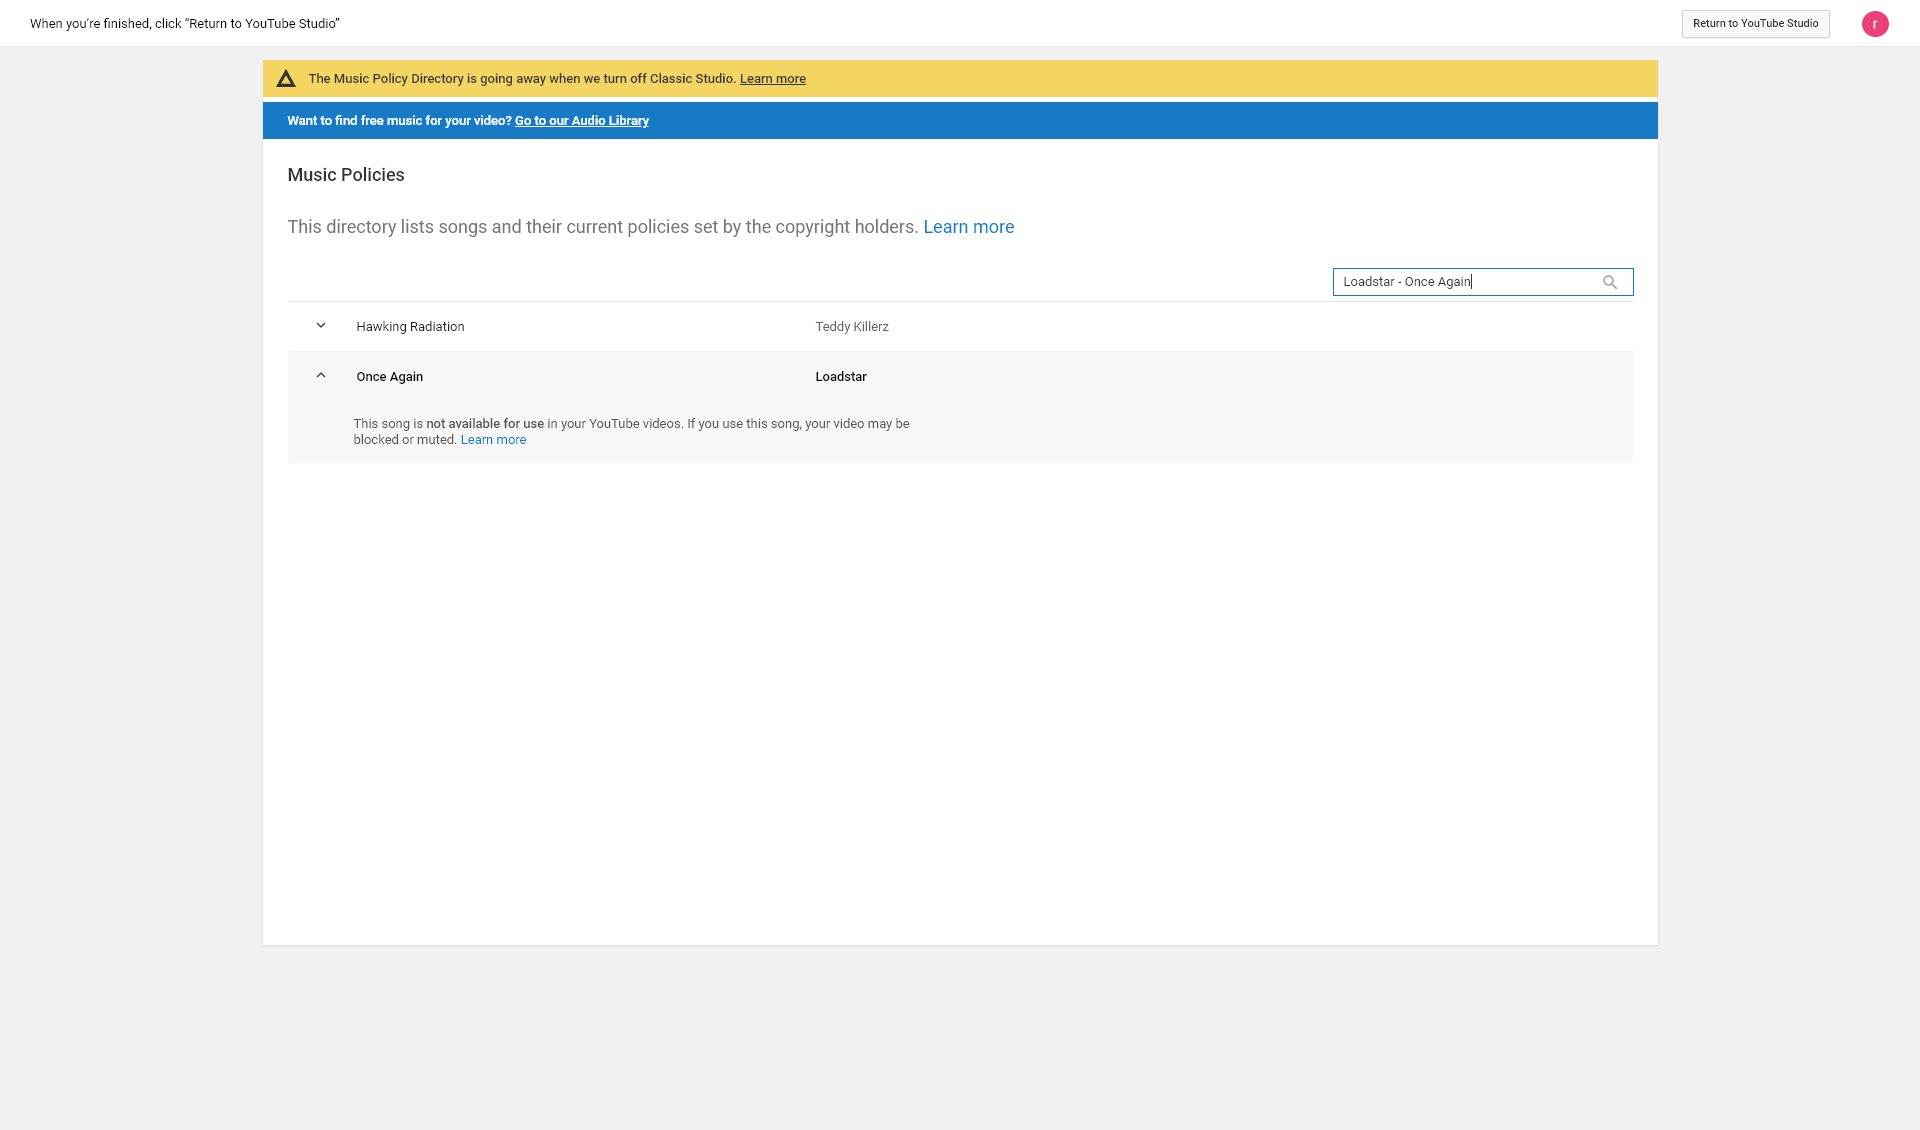
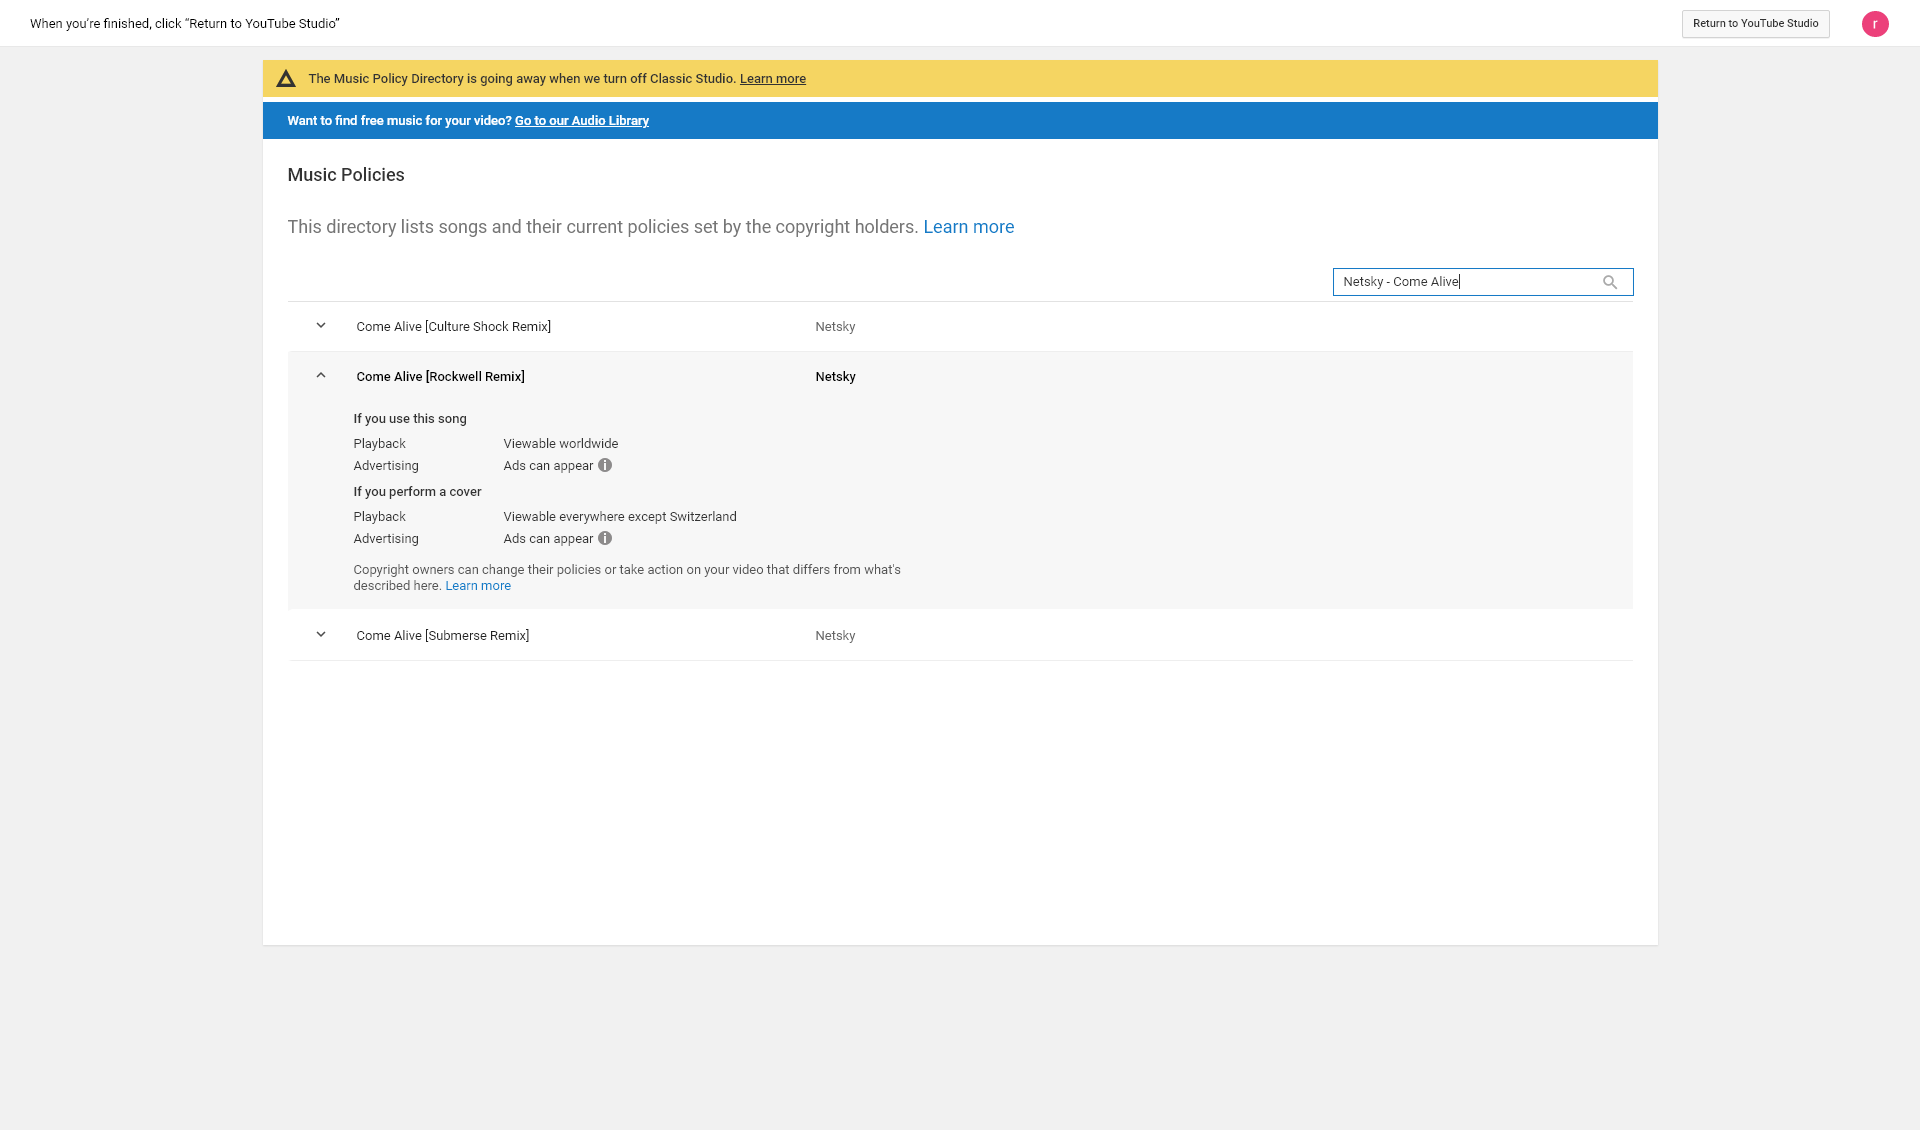
Add delay when typing

diff --git a/app/stealth.js b/app/stealth.js
@@ -21,30 +21,40 @@ puppeteer
     const page = await browser.newPage();
     await page.goto("https://accounts.google.com/");
 
-    await page.waitForSelector('input[type="email"]');
-    await page.click('input[type="email"]');
-    await page.type('input[type="email"]', process.env.LOGIN);
+    const fillEmail = async () => {
+      await page.waitForSelector('input[type="email"]');
+      await page.click('input[type="email"]');
+      await page.type('input[type="email"]', process.env.LOGIN, { delay: 50 });
+    };
+    const clickEmailNext = async () => {
+      await page.waitForSelector("#identifierNext");
+      await page.click("#identifierNext");
+      await page.waitFor(500);
+    };
+    const fillPassword = async () => {
+      await page.waitForSelector('input[type="password"]');
+      await page.evaluate(() => {
+        document.querySelector('input[type="password"]').click();
+      });
+      await page.waitFor(2500);
+      await page.type('input[type="password"]', process.env.PASSWORD, {
+        delay: 50,
+      });
+      await page.waitFor(500);
+    };
+    const clickPasswordNext = async () => {
+      await page.waitForSelector("#passwordNext");
+      await page.click("#passwordNext");
+      console.log("logged");
+      await page.waitFor(2500);
+    };
 
-    await page.waitForSelector("#identifierNext");
-    await page.click("#identifierNext");
-    await page.waitFor(500);
-
-    await page.waitForSelector('input[type="password"]');
-    await page.evaluate(() => {
-      document.querySelector('input[type="password"]').click();
-    });
-    await page.waitFor(2500);
-    await page.type('input[type="password"]', process.env.PASSWORD);
-
-    await page.waitFor(500);
-    await page.waitForSelector("#passwordNext");
-    await page.click("#passwordNext");
-    console.log("logged");
-    await page.waitFor(2500);
-
+    await fillEmail();
+    await clickEmailNext();
+    await fillPassword();
+    await clickPasswordNext();
     await page.goto("https://www.youtube.com/music_policies?nv=1");
     console.log("redirected");
-    await page.waitFor(5000);
 
     await page.evaluate(() => {
       document.querySelector('input[maxlength="80"]').click();
@@ -53,7 +63,9 @@ puppeteer
     console.log("clicked");
     await page.waitFor(2500);
 
-    await page.type('input[maxlength="80"]', "Loadstar - Once Again");
+    await page.type('input[maxlength="80"]', "Netsky - Come Alive", {
+      delay: 50,
+    });
     console.log("typed");
     await page.waitFor(2500);
 

diff --git a/app/app.js b/app/app.js
@@ -11,7 +11,7 @@ puppeteer.use(StealthPlugin());
 puppeteer
   .launch({
     headless: false,
-    slowMo: 250, // slow down by 250ms
+    slowMo: 150, // slow down by ${number}ms
   })
   .then(async (browser) => {
     const page = await browser.newPage();
